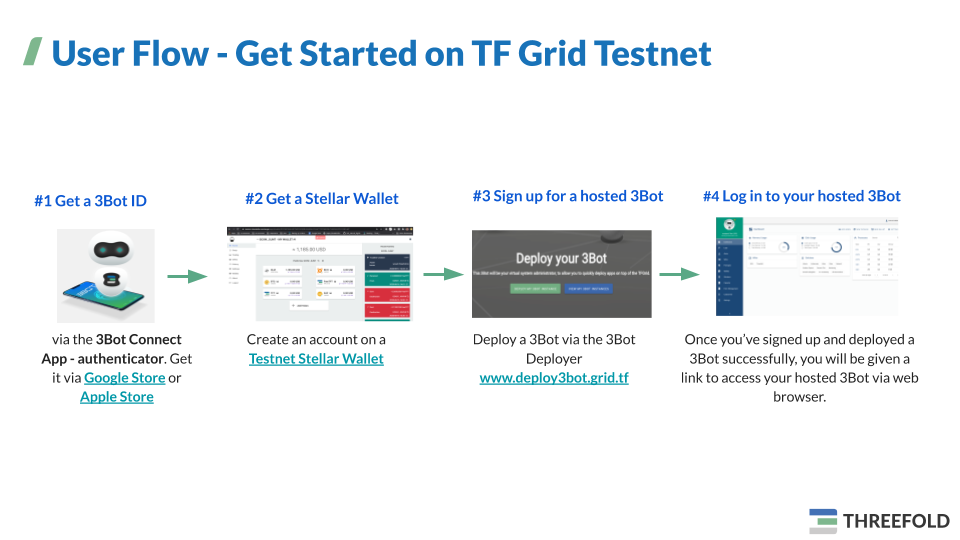
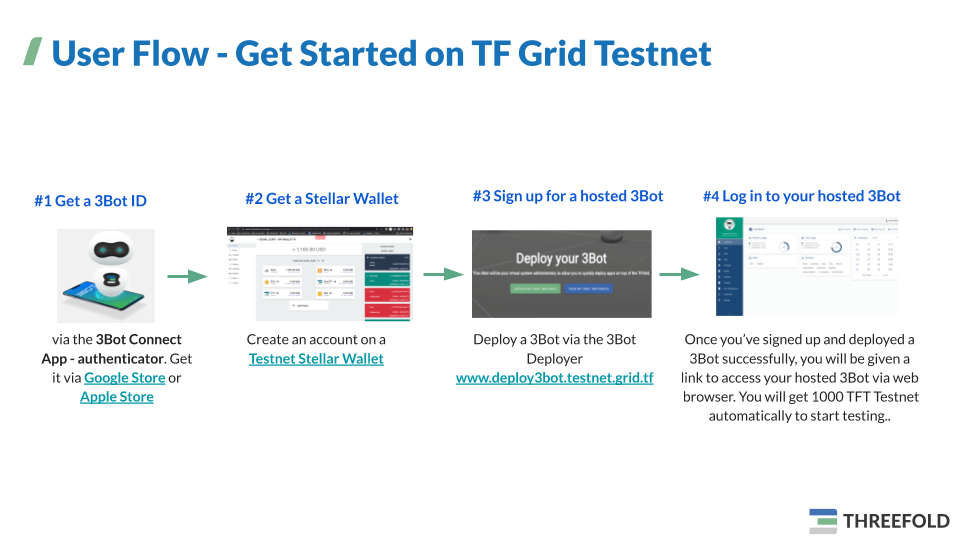
edit

Changed region(s): [[0.7188, 0.7111, 0.9688, 0.8], [0.4688, 0.6222, 0.6875, 0.7111]]

diff --git a/src/gettingstarted/testnet/getting_started_testnet.md b/src/gettingstarted/testnet/getting_started_testnet.md
@@ -1,20 +1,21 @@
 # Getting Started on TF Grid Testnet
 
-![](grid_flow.png)
+![](get_started_testnet.png)
 
 
 ## Basic Pre-requisites
 
-To provision any workload on top of the __Threefold Grid__, there are some pre-requisites that need to be done:
-- Get [__3Bot Connect App__](testnet_3botconnect.md): 3Bot Connect is a mobile app that facilitate you with your own 3Bot Wallet where and 3Bot ID: your digital identity on top of the Threefold Grid.
-- Get a hosted __3Bot__ via [__3Bot Deployer__](testnet_3bot.md).
-- Log in to your __3Bot__.
-- Get some [__TFT__](testnet_gettft.md) to reserve IT Capacity and pay for your workload on top of the TF Grid
+To provision any workload on top of the __Threefold Grid Testnet__, there are some pre-requisites that need to be done:
+- Get [__3Bot Connect App__](mainnet_3botconnect.md): 3Bot Connect is a mobile app that facilitate you with your own 3Bot Wallet where and 3Bot ID: your digital identity on top of the Threefold Grid.
+- Get a [__Testnet 3Bot__](testnet_3bot.md). You have the option to either get a testnet hosted 3Bot or testnet local 3Bot.
+- Log in to your __testnet hosted 3Bot__, if you deployed a hosted 3Bot instead of a local 3Bot.
+- Get and Store [__Testnet TFT__](testnet_gettft.md) to reserve IT Capacity and pay for your workload on top of the TF Grid.
+
 
 ## High-level Instruction to Get Started
 
-### Get 3Bot Connect App and 3Bot ID
 
+### Get 3Bot Connect App and 3Bot ID
 
 As the first step, you need to get yourself a **3Bot Connect** and **3Bot ID**. This could be done by downloading the app on your smartphone and create your own 3Bot Identity. 
 
@@ -22,22 +23,29 @@ Please be aware that this ID is going to be used as your main digital identity o
 
 > Manual: [Get __3Bot Connect App__](mainnet_3botconnect.md)
 
-### Get a 3Bot via 3Bot Deployer
 
-3Bot is the system administrator that helps you to maintain project deployments and activities on top of the TF Grid.
-You would need to sign up for a new 3Bot to be able to deploy a workload on top of the grid. 3Bot comes with a system administrator panel, which is a powerful tool that helps you deploy, maintain and monitor your solutions and workloads on top of the Threefold Grid.
+## Get a 3Bot on Testnet
 
-Please go to [**Get a 3Bot on Testnet Tutorial**](getting_started_3bot.md) to see the detailed instruction on how to get a 3Bot Server and launch your own 3Bot System Administrator Panel on TF Grid Mainnet.
+[__3Bot__](testnet_3bot.md) is your digital twin; a representative of yourself on top of the Threefold Grid, that will execute your digital needs. It is an unprecedented leap in digital privacy and comes with all the functionalities you need to interact and exchange on the new Internet. 3Bot comes with a system administrator panel, which is a powerful tool that helps you deploy, maintain and monitor your solutions and workloads on top of the Threefold Grid.
 
-> Manual: [Get a __hosted 3Bot__ on Testnet](mainnet_3bot.md)
+![](./img/hosted3bot.png)
 
-## Launch and Log in to Your New 3Bot
+There are 2 ways you could run a 3Bot on testnet network: you could either run a __Testnet Hosted 3Bot__ online via your web browser, or for more advanced users, you could install and run a __Testnet Local 3Bot__ manually on your local machine.
 
-Once you’ve signed up and deployed a 3Bot successfully, you will be given a link to access your hosted 3Bot via web browser. Simply go to the provided link to launch your 3Bot and login to your new 3Bot admin dashboard by connecting it to your 3Bot ID and verifying your identity via the 3Bot Connect App on your mobile phone.
+To deploy a Testnet hosted 3Bot online, you would need to follow an easy set up tutorial and go to the Testnet 3Bot deployer website. To deplpy a Testnet local 3Bot on your computer, you would need to follow an advance set up tutorial on setting up a local 3Bot locally on main network.
+
+> Easy Set Up: [Get a __Testnet Hosted 3Bot__ using __3bot Deployer__](3bot_deployer.md)
+
+> Advanced Set Up: [Create a __Testnet Local 3Bot__ on your local machine](local_3bot.md)
 
 
-## Get and Store TFT to Reserve for Your IT Capacity
+## Launch and Log in to Your New Hosted 3Bot
 
-To reserve IT Capacity and pay for your workload on top of the TF Grid, you would need to purchase some TFT and store it on one of your wallets. You could use the 3Bot Wallet on your 3Bot Connect App, a third-party stellar wallet, or the pre-configured wallet on your hosted 3Bot.
+Once you’ve signed up and deployed a hosted 3Bot successfully, you will be given a link to access your hosted 3Bot via web browser. Simply go to the provided link to launch your 3Bot and login to your new 3Bot admin dashboard by connecting it to your 3Bot ID and verifying your identity via the 3Bot Connect App on your mobile phone.
 
-> Manual: [__Get and Store TFT__ on Testnet](testnet_gettft.md)
+
+## Get and Store Testnet TFT to Reserve for Your IT Capacity on Testnet
+
+On testnet hosted 3Bot environment, there are a few options on how to get and store Testnet TFT for your workload. Once you're logged in to your 3Bot for the first time, a pre-configured wallet will be created for you, with an initial balance of 1000 TFT Testnet, for you to be able to reserve IT Capacity to test and try deploying your workload on top of the TF Grid Testnet. You could also use third-party testnet stellar wallet to store your TFT Testnet, request for additional TFT testnet for deployment testing, or trade your stellar tokens into TFT via testnet stellar exchangers.
+
+> Manual: [__Get and Store TFT__ on Testnet](mainnet_gettft.md)

diff --git a/src/gettingstarted/mainnet/getting_started_mainnet.md b/src/gettingstarted/mainnet/getting_started_mainnet.md
@@ -7,14 +7,15 @@
 
 To provision any workload on top of the __Threefold Grid__, there are some pre-requisites that need to be done:
 - Get [__3Bot Connect App__](mainnet_3botconnect.md): 3Bot Connect is a mobile app that facilitate you with your own 3Bot Wallet where and 3Bot ID: your digital identity on top of the Threefold Grid.
-- Get a hosted __3Bot__ via [__3Bot Deployer__](mainnet_3bot.md).
-- Log in to your __3Bot__.
-- Get some [__TFT__](mainnet_gettft.md) to reserve IT Capacity and pay for your workload on top of the TF Grid
+- Get a [__Mainnet 3Bot__](mainnet_3bot.md). You have the option to either get a mainnet hosted 3Bot or mainnet local 3Bot.
+- Log in to your __mainnet hosted 3Bot__, if you deployed a hosted 3Bot instead of a local 3Bot.
+- Get and store [__TFT__ on Mainnet](mainnet_gettft.md) to reserve IT Capacity and pay for your workload on top of the TF Grid
+
 
 ## High-level Instruction to Get Started
 
-### Get 3Bot Connect App and 3Bot ID
 
+### Get 3Bot Connect App and 3Bot ID
 
 As the first step, you need to get yourself a **3Bot Connect** and **3Bot ID**. This could be done by downloading the app on your smartphone and create your own 3Bot Identity. 
 
@@ -22,22 +23,29 @@ Please be aware that this ID is going to be used as your main digital identity o
 
 > Manual: [Get __3Bot Connect App__](mainnet_3botconnect.md)
 
-### Get a 3Bot via 3Bot Deployer
 
-3Bot is the system administrator that helps you to maintain project deployments and activities on top of the TF Grid.
-You would need to sign up for a new 3Bot to be able to deploy a workload on top of the grid. 3Bot comes with a system administrator panel, which is a powerful tool that helps you deploy, maintain and monitor your solutions and workloads on top of the Threefold Grid.
+## Get a 3Bot on Mainnet
 
-Please go to [**Get a 3Bot on Mainnet Tutorial**](getting_started_3bot.md) to see the detailed instruction on how to get a 3Bot Server and launch your own 3Bot System Administrator Panel on TF Grid Mainnet.
+[__3Bot__](mainnet_3bot.md) is your digital twin; a representative of yourself on top of the Threefold Grid, that will execute your digital needs. It is an unprecedented leap in digital privacy and comes with all the functionalities you need to interact and exchange on the new Internet. 3Bot comes with a system administrator panel, which is a powerful tool that helps you deploy, maintain and monitor your solutions and workloads on top of the Threefold Grid.
 
-> Manual: [Get a __hosted 3Bot__ on Mainnet](mainnet_3bot.md)
+![](./img/hosted3bot.png)
 
-## Launch and Log in to Your New 3Bot
+There are 2 ways you could run a 3Bot on mainnet network on your computer: you could either run a __Mainnet Hosted 3Bot__ online via your web browser, or for more advanced users, you could install and run a __Mainnet Local 3Bot__ manually on your local machine.
 
-Once you’ve signed up and deployed a 3Bot successfully, you will be given a link to access your hosted 3Bot via web browser. Simply go to the provided link to launch your 3Bot and login to your new 3Bot admin dashboard by connecting it to your 3Bot ID and verifying your identity via the 3Bot Connect App on your mobile phone.
+To deploy a mainnet hosted 3Bot online, you would need to follow an easy set up tutorial and go to the Mainnet 3Bot deployer website. To deplpy a mainnet local 3Bot on your computer, you would need to follow an advance set up tutorial on setting up a local 3Bot locally on main network.
+
+> Easy Set Up: [Get a __Mainnet Hosted 3Bot__ using 3bot Deployer](3bot_deployer.md)
+
+> Advanced Set Up: [Create a __Mainnet Local 3Bot__ on your local machine](local_3bot.md)
+
+
+## Launch and Log in to Your New Hosted 3Bot
+
+Once you’ve signed up and deployed a hosted 3Bot successfully, you will be given a link to access your hosted 3Bot via web browser. Simply go to the provided link to launch your 3Bot and login to your new 3Bot admin dashboard by connecting it to your 3Bot ID and verifying your identity via the 3Bot Connect App on your mobile phone.
 
 
 ## Get and Store TFT to Reserve for Your IT Capacity
 
-To reserve IT Capacity and pay for your workload on top of the TF Grid, you would need to purchase some TFT and store it on one of your wallets. You could use the 3Bot Wallet on your 3Bot Connect App, a third-party stellar wallet, or the pre-configured wallet on your hosted 3Bot.
+To reserve IT Capacity and pay for your workload on top of the TF Grid, you would need to purchase some TFT and store it on one of your wallets. You could use the __3Bot Wallet__ on your 3Bot Connect App, a third-party stellar wallet, or the pre-configured wallet on your hosted 3Bot. You could get TFT from one of the supporting exchangers or directly from the farms.
 
 > Manual: [__Get and Store TFT__ on Mainnet](mainnet_gettft.md)

diff --git a/src/gettingstarted/testnet/getting_started_testnet_dontuse.md b/src/gettingstarted/testnet/getting_started_testnet_dontuse.md
@@ -1,0 +1,43 @@
+# Getting Started on TF Grid Testnet
+
+![](grid_flow.png)
+
+
+## Basic Pre-requisites
+
+To provision any workload on top of the __Threefold Grid__, there are some pre-requisites that need to be done:
+- Get [__3Bot Connect App__](testnet_3botconnect.md): 3Bot Connect is a mobile app that facilitate you with your own 3Bot Wallet where and 3Bot ID: your digital identity on top of the Threefold Grid.
+- Get a hosted __3Bot__ via [__3Bot Deployer__](testnet_3bot.md).
+- Log in to your __3Bot__.
+- Get some [__TFT__](testnet_gettft.md) to reserve IT Capacity and pay for your workload on top of the TF Grid
+
+## High-level Instruction to Get Started
+
+### Get 3Bot Connect App and 3Bot ID
+
+
+As the first step, you need to get yourself a **3Bot Connect** and **3Bot ID**. This could be done by downloading the app on your smartphone and create your own 3Bot Identity. 
+
+Please be aware that this ID is going to be used as your main digital identity on the Threefold Grid, and holds the keys to access every services on the grid. Therefore, it's very important to remember the login data and the seed phrase of your ID. The 3Bot Connect App will also provide you with an access to your 3Bot Wallet where you could store your Threefold Tokens.
+
+> Manual: [Get __3Bot Connect App__](mainnet_3botconnect.md)
+
+### Get a 3Bot via 3Bot Deployer
+
+3Bot is the system administrator that helps you to maintain project deployments and activities on top of the TF Grid.
+You would need to sign up for a new 3Bot to be able to deploy a workload on top of the grid. 3Bot comes with a system administrator panel, which is a powerful tool that helps you deploy, maintain and monitor your solutions and workloads on top of the Threefold Grid.
+
+Please go to [**Get a 3Bot on Testnet Tutorial**](getting_started_3bot.md) to see the detailed instruction on how to get a 3Bot Server and launch your own 3Bot System Administrator Panel on TF Grid Mainnet.
+
+> Manual: [Get a __hosted 3Bot__ on Testnet](mainnet_3bot.md)
+
+## Launch and Log in to Your New 3Bot
+
+Once you’ve signed up and deployed a 3Bot successfully, you will be given a link to access your hosted 3Bot via web browser. Simply go to the provided link to launch your 3Bot and login to your new 3Bot admin dashboard by connecting it to your 3Bot ID and verifying your identity via the 3Bot Connect App on your mobile phone.
+
+
+## Get and Store TFT to Reserve for Your IT Capacity
+
+To reserve IT Capacity and pay for your workload on top of the TF Grid, you would need to purchase some TFT and store it on one of your wallets. You could use the 3Bot Wallet on your 3Bot Connect App, a third-party stellar wallet, or the pre-configured wallet on your hosted 3Bot.
+
+> Manual: [__Get and Store TFT__ on Testnet](testnet_gettft.md)

diff --git a/src/gettingstarted/testnet/testnet_3bot.md b/src/gettingstarted/testnet/testnet_3bot.md
@@ -1,0 +1,1 @@
+todo

diff --git a/src/gettingstarted/testnet/testnet_gettft.md b/src/gettingstarted/testnet/testnet_gettft.md
@@ -1,0 +1,1 @@
+todo
